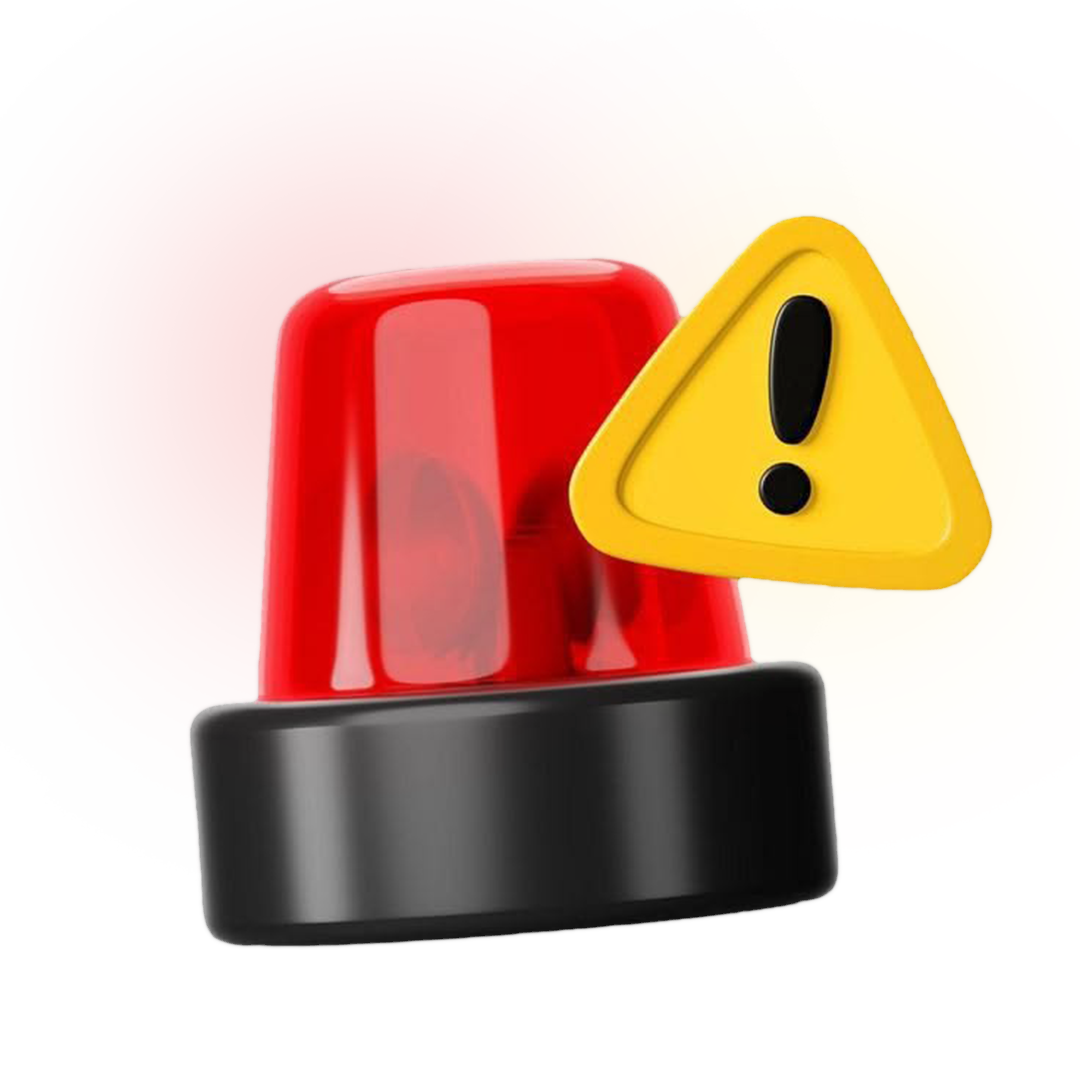
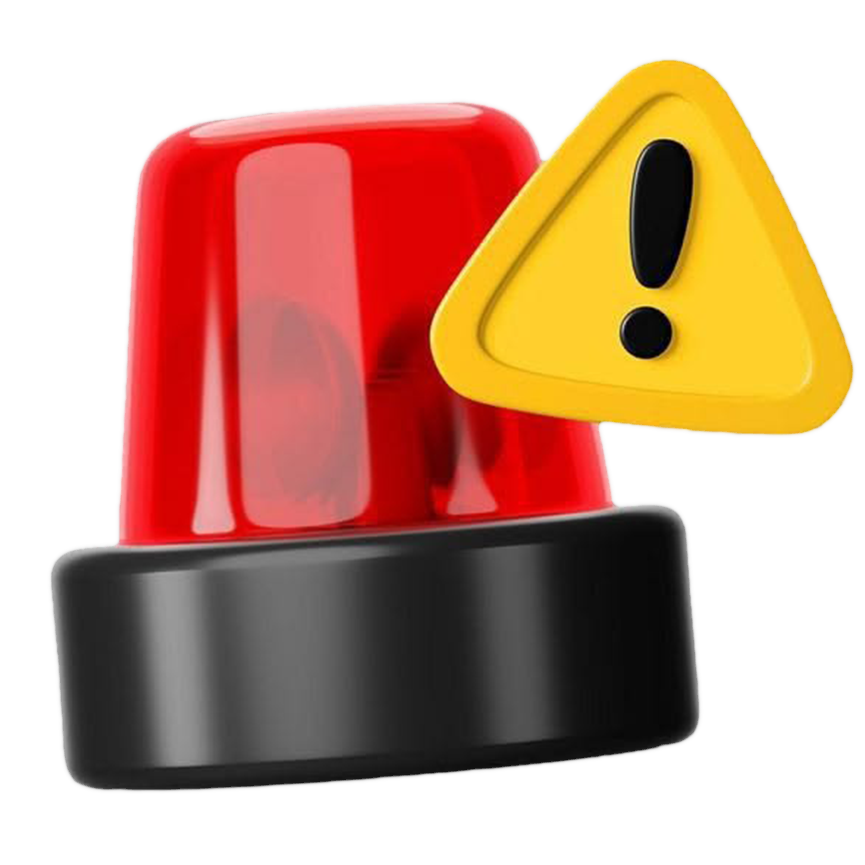
Update

diff --git a/public/styles.css b/public/styles.css
@@ -127,7 +127,7 @@ img{max-width:100%;display:block}
 
 .navbar{position:relative}
 .navbar__inner{
-  min-height:86px;
+  min-height:100px;
   display:grid;
   grid-template-columns:auto minmax(0,1fr) auto auto;
   align-items:center;
@@ -213,7 +213,7 @@ img{max-width:100%;display:block}
   gap:clamp(16px,1.8vw,28px);
   margin:0;
   align-items:center;
-  font-size:15px;
+  font-size:16px;
   font-weight:700;
   color:#24324a;
 }
@@ -329,10 +329,7 @@ img{max-width:100%;display:block}
 
 .hero-visual{
   position:relative;
-  border-radius:42px;
-  overflow:hidden;
   height:clamp(500px,38vw,590px);
-  background:#eaf1fb;
   isolation:isolate;
 }
 .hero-visual img{
@@ -418,7 +415,7 @@ img{max-width:100%;display:block}
   transform:scale(1);
   transition:transform .42s ease;
 }
-.service-card:before{
+.service-card:not(.has-background):before{
   content:"";
   position:absolute;
   inset:auto 0 0;
@@ -429,28 +426,30 @@ img{max-width:100%;display:block}
   transition:.28s;
 }
 .service-card.has-background:before{
+  content:"";
+  position:absolute;
   inset:0;
   height:auto;
-  background:linear-gradient(0deg,rgba(0,0,0,.88) 0,rgba(0,0,0,.62) 34%,rgba(0,0,0,.24) 62%,rgba(0,0,0,.04) 100%);
+  background:linear-gradient(0deg,rgba(0,0,0,.92) 0,rgba(0,0,0,.72) 36%,rgba(0,0,0,.28) 68%,rgba(0,0,0,0) 100%);
   transform:none;
-  z-index:0;
+  z-index:1;
 }
 .service-card:hover{
   transform:translateY(-6px);
   box-shadow:0 28px 70px rgba(6,68,200,.14);
   border-color:rgba(11,99,246,.22);
 }
-.service-card:hover:before{transform:scaleX(1)}
+.service-card:not(.has-background):hover:before{transform:scaleX(1)}
 .service-card.has-background:hover:after{transform:scale(1.06)}
 .service-card__media{width:56px;height:56px;object-fit:contain;margin-bottom:24px}
-.service-card.has-background .service-card__media{display:none}
+.service-card.has-background .service-card__media{display:none !important}
 .service-card h3{font-size:22px;letter-spacing:-.045em;margin:0 0 12px}
 .service-card p{font-size:14px;color:var(--muted);line-height:1.58;margin:0 0 22px}
 .service-card.has-background h3,
 .service-card.has-background p,
-.service-card.has-background em{position:relative;z-index:1}
+.service-card.has-background em{position:relative;z-index:2}
 .service-card.has-background h3{order:2;color:#fff;margin:0}
-.service-card.has-background p{order:3;color:rgba(255,255,255,.82);max-width:92%;margin:0}
+.service-card.has-background p{order:3;color:rgba(255,255,255,.86);max-width:92%;margin:0}
 .service-card em{
   margin-top:auto;
   display:inline-flex;
@@ -1070,6 +1069,63 @@ img{max-width:100%;display:block}
 .lead-form .consent--light{color:#eef4ff}
 .lead-form .consent--light a{color:#fff}
 
+.contacts-section{
+  background:linear-gradient(180deg,#f7faff 0,#eef4ff 100%);
+  padding-top:34px;
+}
+.contacts-card{
+  background:#fff;
+  border:1px solid var(--line);
+  border-radius:38px;
+  padding:clamp(28px,4vw,52px);
+  box-shadow:0 22px 58px rgba(8,34,70,.08);
+}
+.contacts-card__intro{
+  max-width:760px;
+  margin:0 0 28px;
+}
+.contacts-card__intro h2{
+  font-size:clamp(34px,4vw,64px);
+  line-height:.98;
+  letter-spacing:-.055em;
+  margin:12px 0 16px;
+}
+.contacts-card__intro p{
+  margin:0;
+  color:var(--muted);
+  font-size:18px;
+  line-height:1.65;
+}
+.contacts-card__grid{
+  display:grid;
+  grid-template-columns:repeat(2,minmax(0,1fr));
+  gap:18px;
+}
+.contact-item{
+  border:1px solid rgba(216,224,236,.88);
+  border-radius:26px;
+  padding:24px 26px;
+  background:linear-gradient(180deg,#fff 0,#f9fbff 100%);
+}
+.contact-item span{
+  display:block;
+  margin-bottom:10px;
+  color:#5d6e87;
+  font-size:13px;
+  font-weight:800;
+  text-transform:uppercase;
+  letter-spacing:.08em;
+}
+.contact-item a,
+.contact-item p{
+  margin:0;
+  color:var(--ink);
+  font-size:22px;
+  line-height:1.45;
+  text-decoration:none;
+}
+.contact-item a:hover{color:var(--blue)}
+
 .footer{background:#061a34;color:#fff;padding:64px 0 24px}
 .footer__grid{display:grid;grid-template-columns:1.2fr repeat(3,1fr);gap:40px}
 .footer p,.footer a{color:#c9d8ee;line-height:1.8}
@@ -1221,6 +1277,7 @@ img{max-width:100%;display:block}
   .topbar__inner{overflow:auto;flex-wrap:nowrap;padding-top:10px;padding-bottom:10px}
   .trust-chips,.pricing,.office__grid,.quick-help__inner,.document-panel__head,.stats{grid-template-columns:1fr}
   .cards--five,.service-grid{grid-template-columns:repeat(2,1fr)}
+  .contacts-card__grid{grid-template-columns:1fr}
   .quick-form,.doc-form__row,.form-row{flex-direction:column}
   .lead-form .form-row{grid-template-columns:1fr}
   .quick-form{grid-template-columns:1fr}
@@ -1260,6 +1317,10 @@ img{max-width:100%;display:block}
   .hero h1{font-size:42px}
   .section-full{padding:56px 0}
   .cards--five,.service-grid,.footer__grid,.social-hub__grid{grid-template-columns:1fr}
+  .contacts-card{border-radius:28px;padding:24px 20px}
+  .contact-item{border-radius:20px;padding:20px}
+  .contact-item a,
+  .contact-item p{font-size:18px}
   .stats div{border-right:0;border-bottom:1px solid var(--line)}
   .stats div:last-child{border-bottom:0}
   .hero__actions{flex-direction:column}

diff --git a/public/index.html b/public/index.html
@@ -31,13 +31,13 @@
           <a href="#contacts">Контакты</a>
         </nav>
         <div class="navbar__actions">
-          <a class="navbar-call" id="navbar-phone" href="tel:[phone redacted]" aria-label="Позвонить в Правовой партнёр">
-            <span class="navbar-call__icon" aria-hidden="true">☎</span>
-            <span class="navbar-call__body">
-              <strong id="navbar-phone-label">[phone redacted]</strong>
-              <small>Звонок бесплатный</small>
-            </span>
-          </a>
+            <a class="navbar-call" id="navbar-phone" href="tel:[phone redacted]" aria-label="Позвонить в Правовой партнёр">
+              <span class="navbar-call__icon" aria-hidden="true">☎</span>
+              <span class="navbar-call__body">
+                <strong id="navbar-phone-label">[phone redacted]</strong>
+                <small>Консультация бесплатно</small>
+              </span>
+            </a>
           <button class="btn btn--primary navbar__cta" id="navbar-cta" type="button">Получить разбор</button>
         </div>
         <button class="burger" type="button" aria-label="Открыть меню" aria-expanded="false"><span></span><span></span><span></span></button>
@@ -185,14 +185,9 @@
               <p>Доводим задачу до результата и объясняем дальнейшие шаги.</p>
             </div>
           </article>
-        </div>        <div class="stats reveal-group">
-          <div><span class="stat-value" data-counter="12000" data-suffix="+">12 000+</span><p>довольных клиентов</p></div>
-          <div><span class="stat-value" data-counter="8">8</span><p>лет успешной работы</p></div>
-          <div><span class="stat-value" data-counter="93" data-suffix="%">93%</span><p>дел решены в пользу клиентов</p></div>
-          <div><span class="stat-value" data-counter="80" data-suffix="+">80+</span><p>городов России</p></div>
+          </div>
         </div>
-      </div>
-    </section>
+      </section>
 
     <section class="section-full" id="prices">
       <div class="page-shell">
@@ -370,9 +365,38 @@
         </form>
       </div>
     </section>
+    <section class="section-full contacts-section" id="contacts">
+      <div class="page-shell">
+        <div class="contacts-card reveal">
+          <div class="contacts-card__intro">
+            <span class="eyebrow">Контакты компании</span>
+            <h2 id="contact-company-name">Правовой партнёр</h2>
+            <p id="contact-company-description">Юридические решения для жизни и бизнеса.</p>
+          </div>
+          <div class="contacts-card__grid">
+            <article class="contact-item">
+              <span>Телефон</span>
+              <a id="contact-company-phone" href="tel:[phone redacted]">[phone redacted]</a>
+            </article>
+            <article class="contact-item">
+              <span>Email</span>
+              <a id="contact-company-email" href="mailto:[email redacted]">[email redacted]</a>
+            </article>
+            <article class="contact-item">
+              <span>Адрес</span>
+              <p id="contact-company-address">г. Москва, ул. Тверская, 16, офис 812</p>
+            </article>
+            <article class="contact-item">
+              <span>График работы</span>
+              <p id="contact-company-hours">Пн–Пт: 9:00–19:00, Сб: 10:00–16:00</p>
+            </article>
+          </div>
+        </div>
+      </div>
+    </section>
   </main>
 
-  <footer class="footer" id="contacts">
+  <footer class="footer">
     <div class="page-shell footer__grid">
       <div>
         <img src="/assets/logo.png" alt="Правовой партнёр" class="footer__logo" id="footer-logo" />

diff --git a/public/script.js b/public/script.js
@@ -161,11 +161,17 @@ function applySiteSettings(settings) {
   applyServiceCards(settings.services || []);
 
   setText("#footer-description", settings.contacts.footerDescription);
+  setText("#contact-company-name", settings.branding.siteTitle);
+  setText("#contact-company-description", settings.contacts.footerDescription);
   setContactLink("#topbar-phone", settings.contacts.phoneDisplay, settings.contacts.phoneHref, "☎");
   setContactLink("#footer-phone", settings.contacts.phoneDisplay, settings.contacts.phoneHref);
+  setContactLink("#contact-company-phone", settings.contacts.phoneDisplay, settings.contacts.phoneHref);
   setText("#footer-email", settings.contacts.email);
+  setEmailLink("#contact-company-email", settings.contacts.email);
   setText("#footer-hours", settings.contacts.workingHours);
+  setText("#contact-company-hours", settings.contacts.workingHours);
   setText("#footer-address", settings.contacts.cityAddress);
+  setText("#contact-company-address", settings.contacts.cityAddress);
   setText("#topbar-hours", settings.contacts.workingHours, '<span class="icon">◷</span> ');
   setText("#topbar-address", settings.contacts.cityAddress, '<span class="icon">⌖</span> ');
 
@@ -260,6 +266,19 @@ function setContactLink(selector, label, phone, icon = "") {
   }
 
   element.innerHTML = icon ? `${icon} ${escapeHtml(label)}` : escapeHtml(label);
+}
+
+function setEmailLink(selector, email) {
+  const element = $(selector);
+  if (!element || !email) {
+    return;
+  }
+
+  if (element.tagName === "A") {
+    element.href = `mailto:${String(email).trim()}`;
+  }
+
+  element.textContent = String(email).trim();
 }
 
 function setSocialLink(selector, url) {